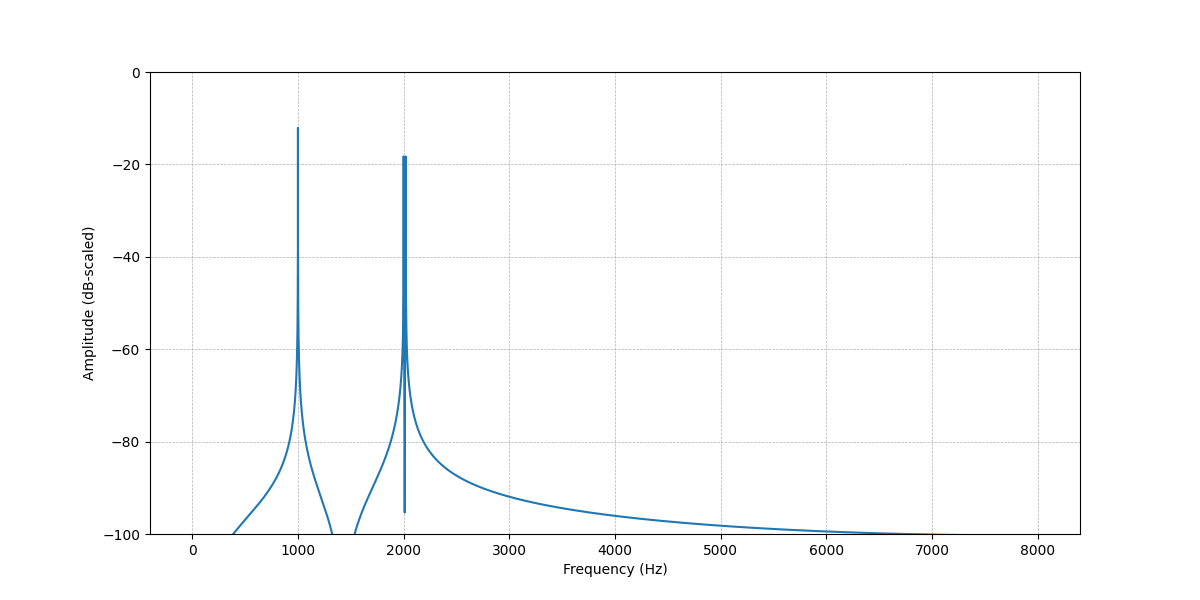
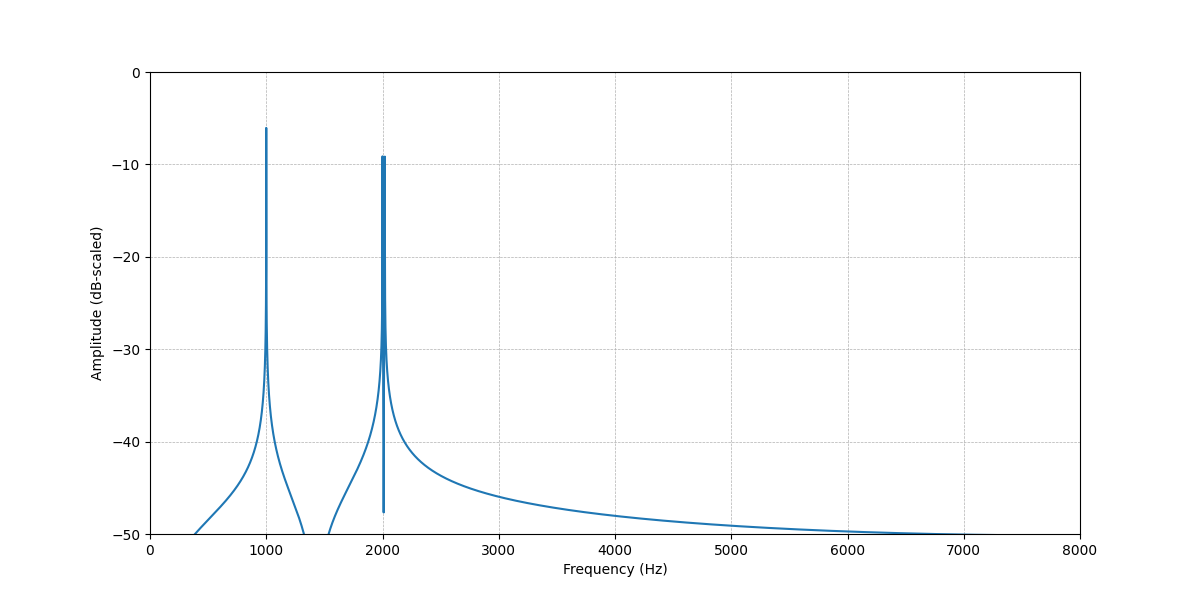
added a main file

diff --git a/main.py b/main.py
@@ -1,5 +1,7 @@
 import numpy as np
 import matplotlib.pyplot as plt
+import scipy
+
 
 def random_sequence():
     a = np.random.uniform(low=-1, high=1, size=10000)
@@ -22,42 +24,247 @@ def random_sequence():
     # Plot histogram of a[n]
     fig, axs = plt.subplots(1, 3)
     axs[0].bar(center_a, pmf_a, width=(bins_a[1] - bins_a[0]), alpha=0.7)
-    axs[0].set_title('Histogram a[n]')
-    axs[0].set_xlabel('Value')
-    axs[0].set_ylabel('Frequency')
+    axs[0].set_title("Histogram a[n]")
+    axs[0].set_xlabel("Value")
+    axs[0].set_ylabel("Frequency")
 
     # Plot histogram of b[n]
     axs[1].bar(center_b, pmf_b, width=(bins_b[1] - bins_b[0]), alpha=0.7)
-    axs[1].set_title('Histogram b[n]')
-    axs[1].set_xlabel('Value')
-    axs[1].set_ylabel('Frequency')
+    axs[1].set_title("Histogram b[n]")
+    axs[1].set_xlabel("Value")
+    axs[1].set_ylabel("Frequency")
 
     axs[2].bar(center_y, pmf_y, width=(bins_y[1] - bins_y[0]), alpha=0.7)
-    axs[2].set_title('Histogram y[n]')
-    axs[2].set_xlabel('Value')
-    axs[2].set_ylabel('Frequency')
+    axs[2].set_title("Histogram y[n]")
+    axs[2].set_xlabel("Value")
+    axs[2].set_ylabel("Frequency")
 
     plt.tight_layout()
-    plt.savefig("hist_1.svg")
+    plt.savefig("plots/hist_1.png")
+
+
+# random_sequence()
+
+
+def convolution():
+    N = 101
+    # Generate two triangular windows
+    a = np.array([1 - abs((i - (N - 1) / 2) / ((N - 1) / 2)) for i in range(N)])
+    b = np.array([1 - abs((i - (N - 1) / 2) / ((N - 1) / 2)) for i in range(N)])
+
+    # Perform convolution: we now apply the convolution function to the generated windows.
+    L_a = len(a)
+    L_b = len(b)
+    L_y = L_a + L_b - 1  # Length of the output signal
+    y = [0] * L_y
+
+    # convolution step by step
+    for n in range(L_y):
+        for k in range(L_a):
+            if 0 <= n - k < L_b:
+                y[n] += a[k] * b[n - k]
+
+    # Plot the results. We visualize:
+
+    # The first triangular window.
+    # The second triangular window.
+    # The result of their convolution.
+    # Plot the first triangular window
+    plt.figure(figsize=(6, 4))
+    plt.plot(a, label="a[n]", color="blue")
+    plt.title("Triangular Window a[n]")
+    plt.xlabel("Sample Index")
+    plt.ylabel("Amplitude")
+    plt.legend()
+    plt.tight_layout()
+    plt.savefig("plots/triangular_window_a.png")
+
+    # Plot the second triangular window
+    plt.figure(figsize=(6, 4))
+    plt.plot(b, label="b[n]", color="orange")
+    plt.title("Triangular Window b[n]")
+    plt.xlabel("Sample Index")
+    plt.ylabel("Amplitude")
+    plt.legend()
+    plt.tight_layout()
+    plt.savefig("plots/triangular_window_b.png")
+
+    # Plot the result of the convolution
+    plt.figure(figsize=(6, 4))
+    plt.plot(y, label="y[n] = a[n] * b[n]", color="green")
+    plt.title("Convolution Result y[n]")
+    plt.xlabel("Sample Index")
+    plt.ylabel("Amplitude")
+    plt.legend()
+    plt.tight_layout()
+    plt.savefig("plots/convolution_result_y.png")
+
+    
+    plt.figure(figsize=(12, 8))
+    
+    plt.subplot(3, 1, 1)
+    plt.plot(a, label='a[n]', color='blue')
+    plt.title('Triangular Window a[n]')
+    plt.xlabel('Sample Index')
+    plt.ylabel('Amplitude')
+    plt.legend()
+
+    # Plot the second triangular window
+    plt.subplot(3, 1, 2)
+    plt.plot(b, label='b[n]', color='orange')
+    plt.title('Triangular Window b[n]')
+    plt.xlabel('Sample Index')
+    plt.ylabel('Amplitude')
+    plt.legend()
+
+    # Plot the result of the convolution
+    plt.subplot(3, 1, 3)
+    plt.plot(y, label='y[n] = a[n] * b[n]', color='green')
+    plt.title('Convolution Result y[n]')
+    plt.xlabel('Sample Index')
+    plt.ylabel('Amplitude')
+    plt.legend()
+
+    plt.tight_layout()
+    plt.savefig("plots/joint_convolution_plot.png")
+
+    # return a, b, y
+
+
+def DFT():
+    sample_rate = 16_000
+    duration = 2
+    signal_params = [(0.5, 1000), (0.25, 2000), (0.25, 2020)]
+    file_name = "audio/section_2_DFT.wav"
+    timeAxis = np.linspace(0, 2, sample_rate * duration)
+
+    # We have a sum of the frequencies that form the signal x[n]
+    list_of_signals = np.array(
+        [amp * np.sin(2 * np.pi * freq * timeAxis) for amp, freq in signal_params]
+    )
+
+    # we sum up the signals to create one signal
+    x = np.sum(list_of_signals, axis=0)
+
+    scipy.io.wavfile.write(file_name, sample_rate, x)
+    print(f"file saved at: {file_name}")
+
+    _, data = scipy.io.wavfile.read(file_name)
+
+    # Pad data to the next power of 2
+    next_pow2 = int(2 ** np.ceil(np.log2(len(data))))
+    padded_data = np.pad(data, (0, next_pow2 - len(data)), mode="constant")
+
+    # perform fft
+    X = scipy.fft.fft(data)
+    freqs = np.fft.fftfreq(len(data), 1 / sample_rate)[:sample_rate]
+
+    # normalize the magnitude values to reflect the actual amplitude of the signal.
+    z = np.abs(X) / len(data)
+
+    z[0] = 1e-10
+
+    # convert to db scale we multiply by 10 because we want the power ratio
+    z_db = 10 * np.log10(z)
+    z_db = z_db[:sample_rate]  # limit length of signal to sample rate
+
+    # plot the
+    plt.figure(figsize=(12, 6))
+    plt.plot(freqs, z_db)
+    plt.xlabel("Frequency (Hz)")
+    plt.ylabel("Amplitude (dB-scaled)")
+    plt.ylim(-50, 0)
+    plt.xlim(0, sample_rate // 2)
+    plt.grid(True, which="both", linestyle="--", linewidth=0.5)
+    plt.savefig("plots/section_2_fequency_plot.png")
+    print("saved the plot at: section_2_fequency_plot.png")
+    # extract the real and complex part to get the phases
+    a = X.real
+    b = X.imag
+
+    # phi = arctan(b/a)
+    phi = np.arctan2(b, a)
+    phi = phi[:sample_rate]
+
+    plt.figure(figsize=(12, 6))
+    plt.plot(freqs, phi, label="Phase (radians)")
+
+    # Adding grid
+    plt.grid(True, which="both", linestyle="--", linewidth=0.5)
+    # Adjust y-axis to show ticks as multiples of π/2
+    plt.yticks(
+        ticks=np.arange(-np.pi, np.pi + np.pi / 2, np.pi / 2),
+        labels=[
+            r"$-\pi$",
+            r"$-\pi/2$",
+            r"$0$",
+            r"$\pi/2$",
+            r"$\pi$",
+        ],  # Corresponding labels
+    )
+    # plt.xlim(0, len(freqs))
+    # Add labels and legend
+    plt.xlabel("Frequency (Hz)")
+    plt.ylabel("Phase (radians)")
+    plt.savefig("plots/section_2_phase_plot.png")
+    print("saved the plot at: section_2_phase_plot.png")
+
+    # Unwrapped phase
+    phi_unwrapped = np.unwrap(phi)
+
+    plt.figure(figsize=(12, 6))
+    plt.plot(freqs, phi_unwrapped, label="Unwrapped Phase (radians)")
+
+    # Adding grid
+    plt.grid(True, which="both", linestyle="--", linewidth=0.5)
+    # Add labels and legend
+    plt.xlabel("Frequency (Hz)")
+    plt.ylabel("Unwrapped Phase (radians)")
+    plt.savefig("plots/section_2_unwrapped_phase_plot.png")
+    
+    print("saved the plot at: section_2_unwrapped_phase_plot.png")
+
+
+def STFT(input, window_fn, window_size, hop_size):
+    win = window_fn(window_size)
+    input_len = input.shape[0]
+    # [1, 2, 3, ...]
+
+    end_padding = window_size - (input_len % hop_size)
+
+    # [1, 2, 3, ..., 0, 0]
+    signal = np.concatenate((input, np.zeros(end_padding)))
+    signal_len = signal.shape[0]
+
+    n_hops = signal_len // hop_size - 1  # (signal_len / hop_size) - 1
+
+    # create a placehodler matrix of size [n_hops x (window_size/2)]
+    stft_output = np.zeros((n_hops, window_size // 2))
+
+    for n in range(n_hops):
+        idx = n * hop_size
+        block = signal[idx : idx + window_size]
+        block = block * win
+        block = np.fft.fft(block)
+        stft_output[n] = np.abs(block[: window_size // 2])
+
+    stft_out = np.log(stft_output.T**2)
+    plt.figure()
+    plt.imshow(stft_out, aspect="auto", origin="lower", cmap="viridis")
+    plt.xlabel("Time (frames)")
+    plt.ylabel("Frequency (bins)")
+    plt.title("STFT Magnitude")
+    plt.tight_layout()
+    plt.savefig("plots/stft_output.png")
+
+    print("saved the STFT output")
+
 
 random_sequence()
 
+convolution()
 
+DFT()
 
-
-
-
-
-n_hops = signal_len // hop_size
-
-stft_output = np.zeros((n_hops, window_size // 2))
-
-for n in range(n_hops):
-    idx = n * hop_size
-    block = signal[idx:idx + window_size]
-    print(block.shape, win.shape)
-    block = block * win
-    block = np.fft.fft(block)
-    stft_output[n] = block[:window_size // 2]
-
-return stft_output
+sr, signal = scipy.io.wavfile.read("audio/TwoNote_DPA_31.wav")
+STFT(signal, scipy.signal.windows.blackman, 2048, 1024)
